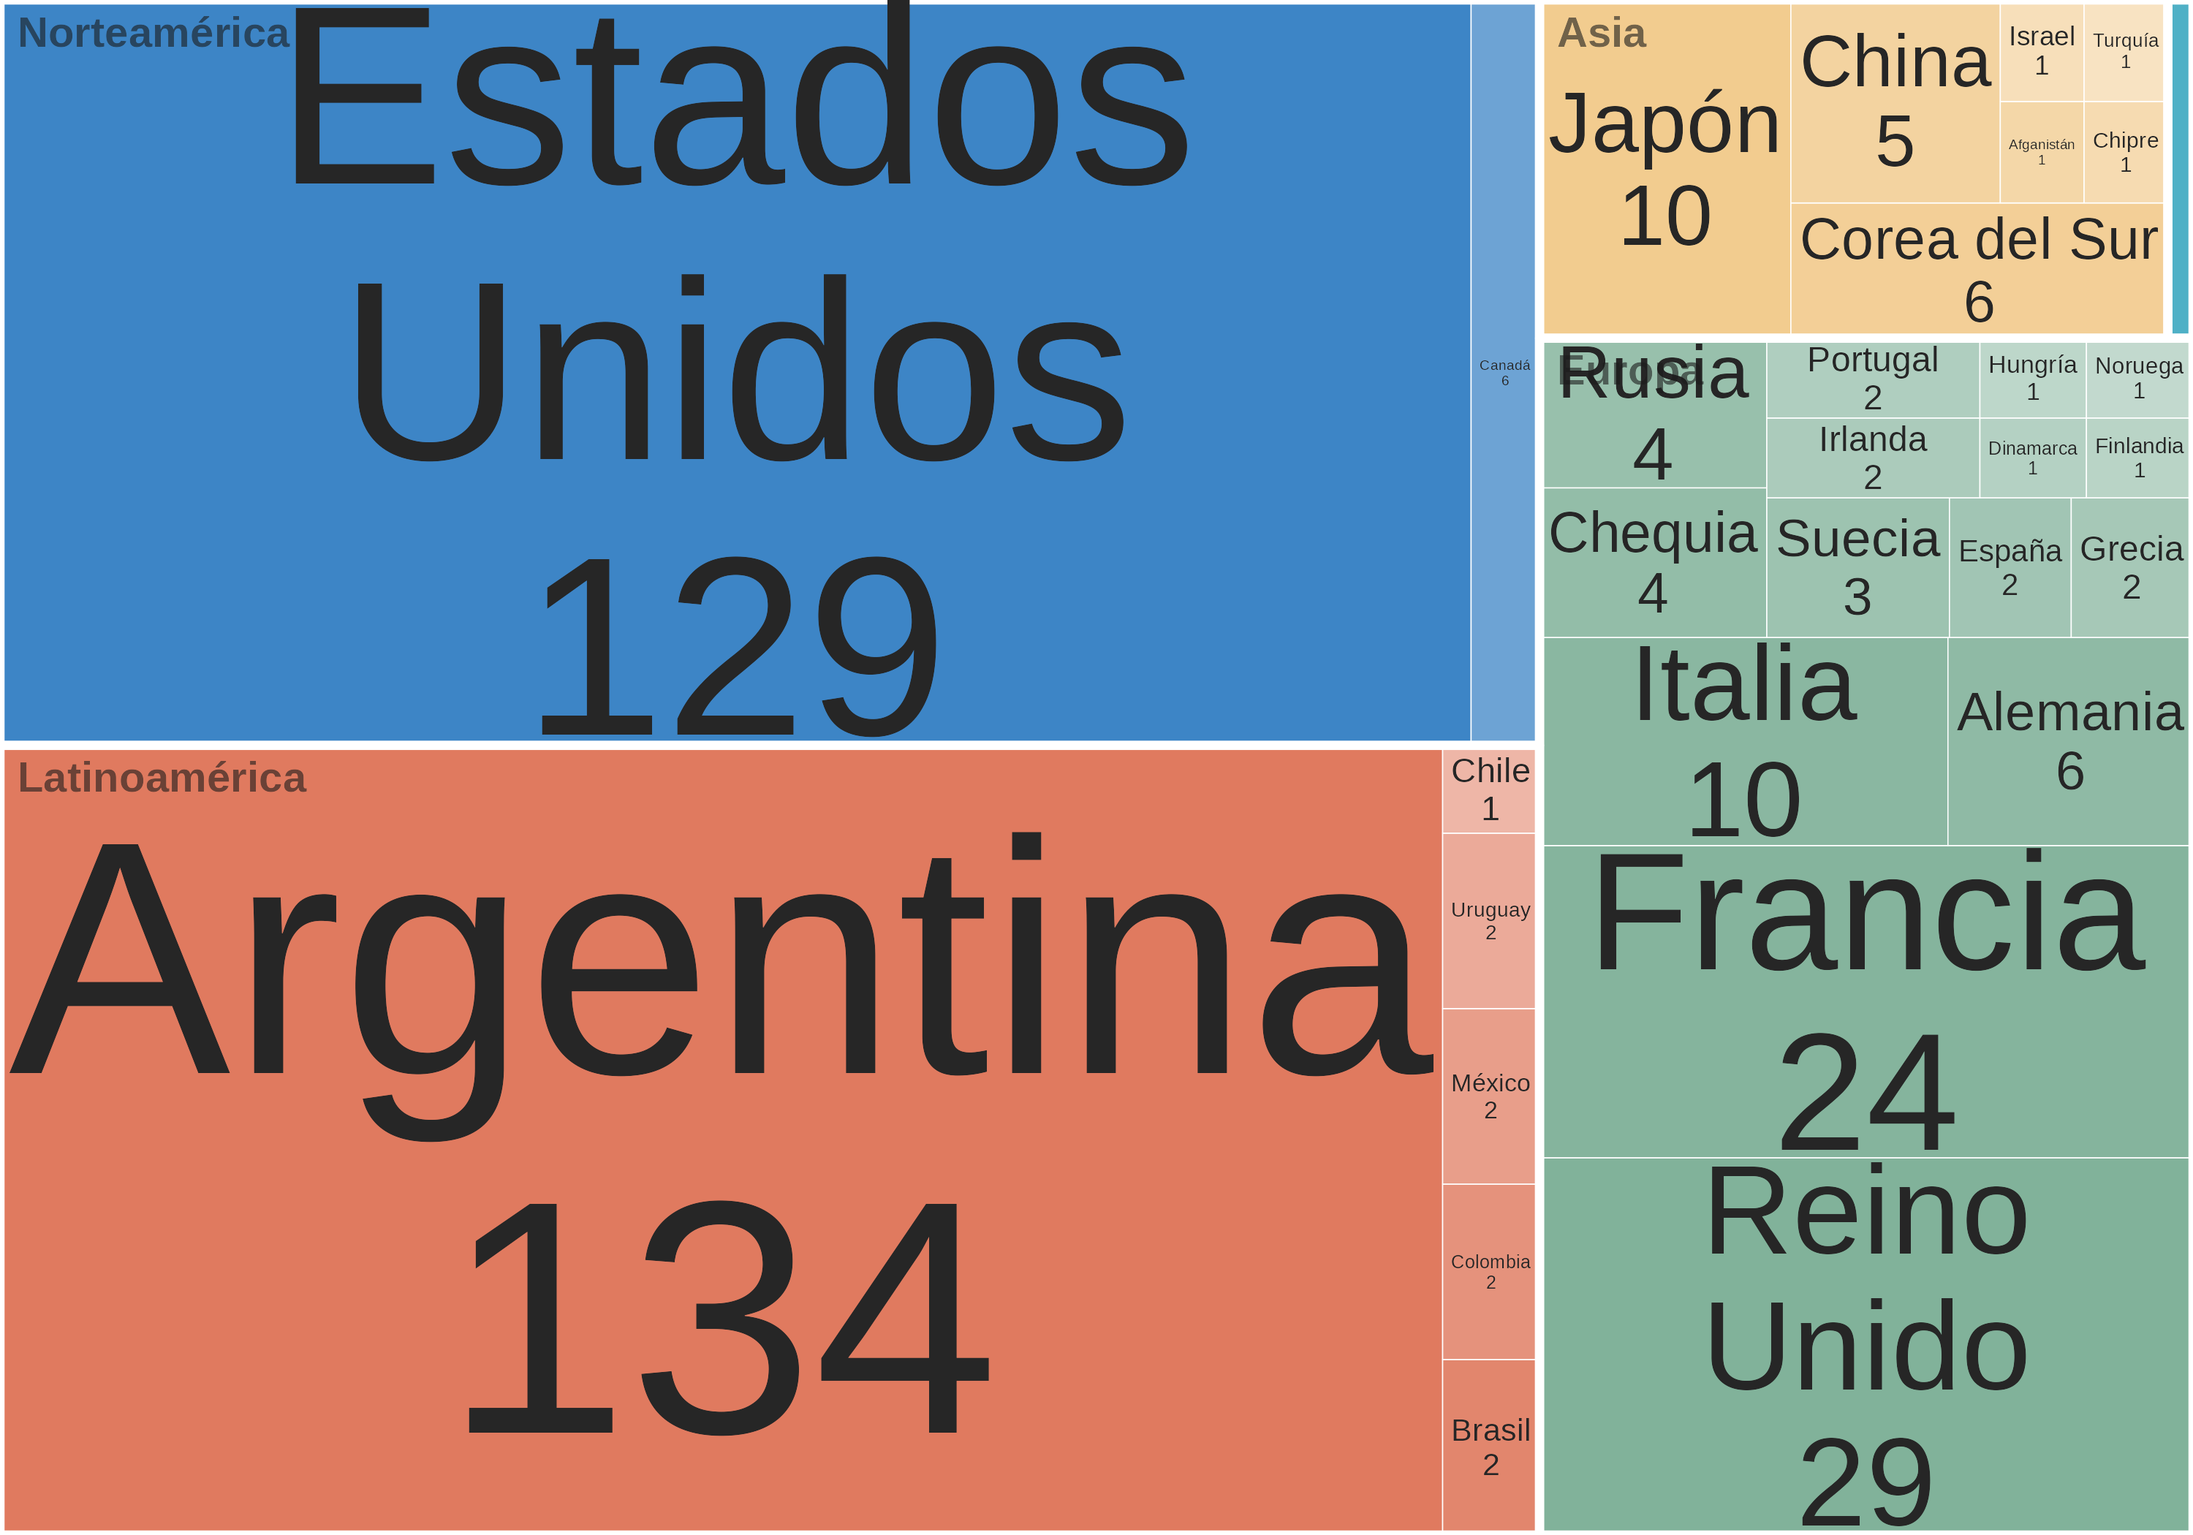
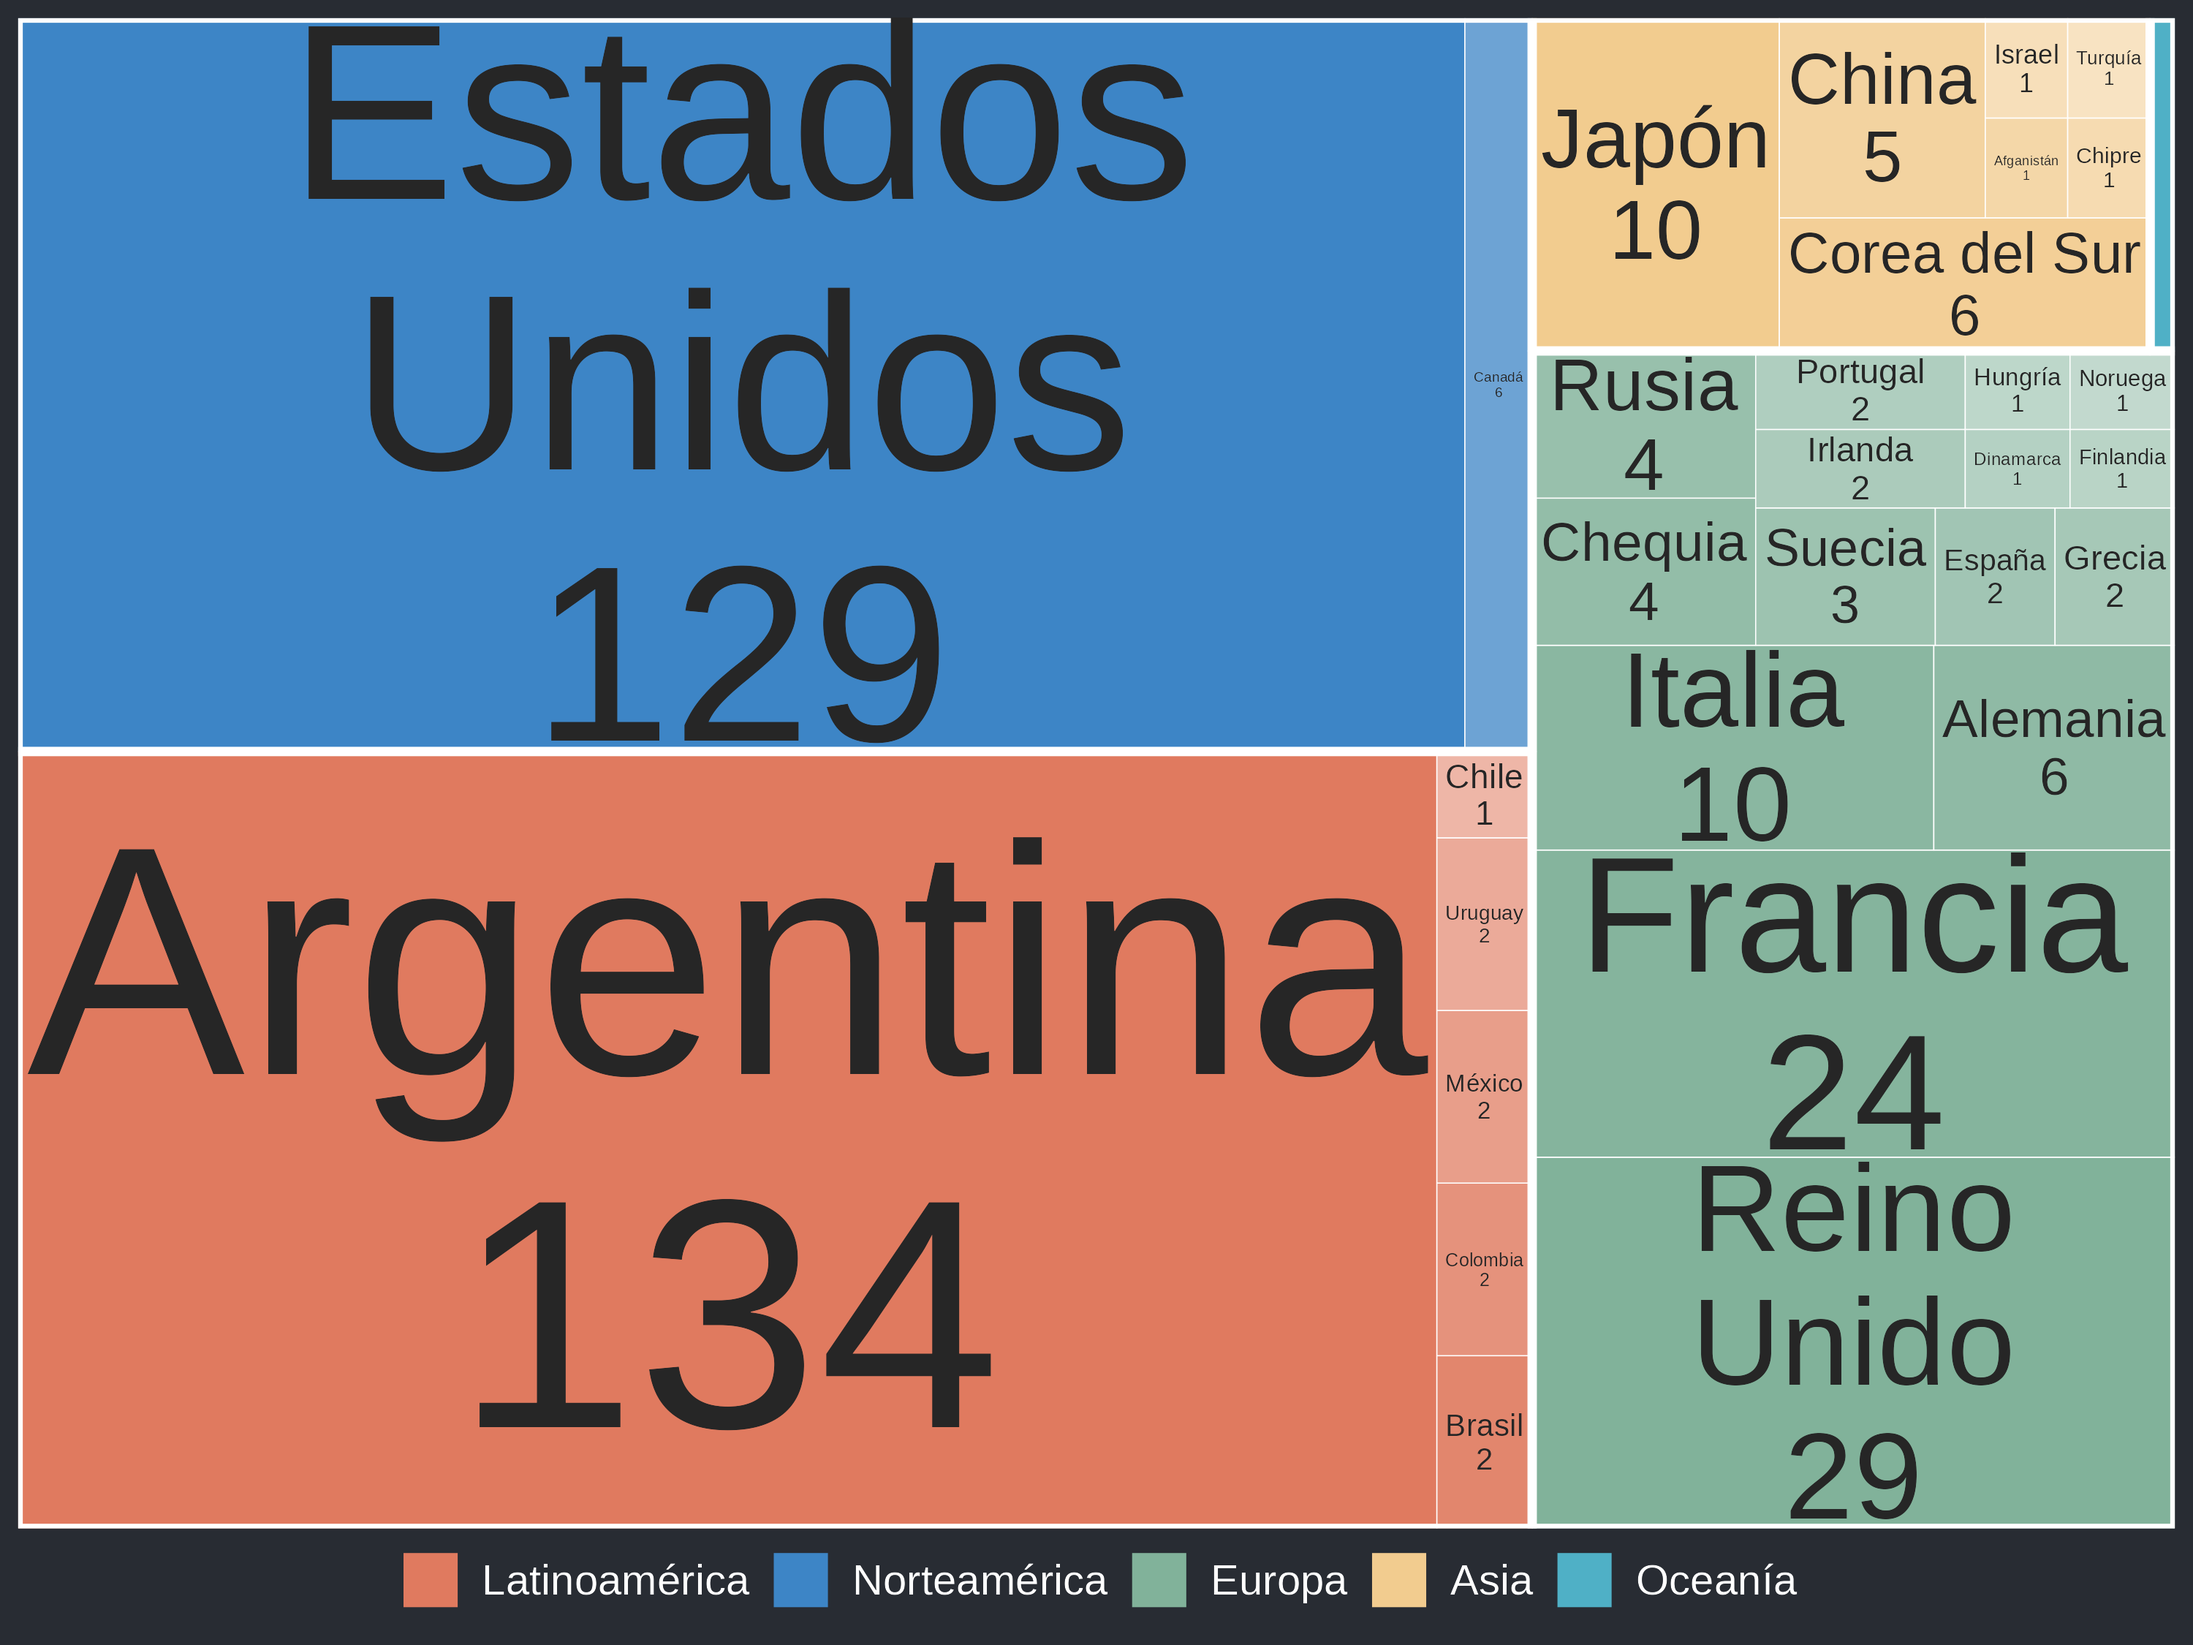
DataViz III: autores con nombre y treemap con leyenda de continentes
Claude-Session: https://claude.ai/code/session_01XA8AM6u7gpUR92ZEf2FbBM

Changed region(s): [[0.0, 0.0, 1.0, 1.0], [0.155, 0.1857, 0.527, 0.3095]]

diff --git a/_posts/2026-10-16-dataviz-libros.md b/_posts/2026-10-16-dataviz-libros.md
@@ -336,14 +336,16 @@ ggplot(authors, aes(x = reorder(Author, -n), y = n)) +
   geom_col(fill = "aquamarine", alpha = 0.5) +
   geom_text(aes(label = n), vjust = 3, color = "white") +
   geom_image(aes(image = image, y = n + 1.5), size = 0.1) +
-  xlab("Autor") + ylab("Libros") +
+  expand_limits(y = max(authors$n) + 4) +
+  xlab(NULL) + ylab("Libros") +
   scale_y_continuous(expand = expansion(mult = c(0, 0.05))) +
   theme_dark_blue() +
-  theme(axis.text.x = element_blank())
+  # Nombre de cada autor debajo de su barra, a 45 grados
+  theme(axis.text.x = element_text(angle = 45, hjust = 1, vjust = 1))
 ```
 
 {:.center}
-![Autores con al menos cuatro libros leídos, con su foto sobre cada barra; Stephen King encabeza con 19 libros](/assets/img/posts/dataviz3/12_autores.png)
+![Autores con al menos cuatro libros leídos, con su foto sobre cada barra y su nombre debajo; Stephen King encabeza con 19 libros, seguido por R. L. Stine con 14 y Haruki Murakami con 8](/assets/img/posts/dataviz3/12_autores.png)
 
 ¿De dónde son esos autores? En [DataViz II](/datascience/barras-y-tortas/) vimos el treemap. Acá le agregué un nivel: los países se agrupan por continente, cada continente tiene un color y los países van del tono pleno (el más leído) a tonos más claros. El continente sale de **countrycode**, a partir del nombre del país en español:
 
@@ -374,20 +376,34 @@ country <- country %>%
     round(n() * 1.8) + 1)[row_number()]) %>%
   ungroup()
 
+# Los continentes van en una leyenda debajo del treemap, ordenados de más a menos libros
+orden_continentes <- country %>%
+  count(continente, wt = n, sort = TRUE) %>%
+  pull(continente)
+
 ggplot(country, aes(area = n, fill = color, subgroup = continente,
                     label = paste0(Country, "\n", n))) +
   geom_treemap(colour = "white") +
   geom_treemap_subgroup_border(colour = "white", size = 4) +
   geom_treemap_text(colour = "grey15", place = "centre", grow = TRUE,
                     reflow = TRUE, min.size = 3) +
-  geom_treemap_subgroup_text(colour = "grey10", place = "topleft", grow = FALSE,
-                             size = 14, fontface = "bold", alpha = 0.6) +
+  # Capa invisible: solo sirve para generar la leyenda de continentes
+  geom_point(data = distinct(country, continente),
+             aes(x = 0, y = 0, colour = continente),
+             inherit.aes = FALSE, alpha = 0, shape = 15, size = 0) +
+  scale_colour_manual(values = colores_base, breaks = orden_continentes, name = NULL,
+                      guide = guide_legend(nrow = 1,
+                                           override.aes = list(alpha = 1, size = 8))) +
   scale_fill_identity() +
-  theme_void()
+  theme_void() +
+  theme(legend.position = "bottom",
+        legend.text = element_text(colour = "white", size = 14),
+        plot.background = element_rect(fill = "#282C33", colour = NA),
+        plot.margin = margin(6, 6, 10, 6))
 ```
 
 {:.center}
-![Treemap de libros por país del autor, agrupados por continente: Argentina con 134 y Estados Unidos con 129 ocupan más de la mitad; siguen Reino Unido con 29 y Francia con 24](/assets/img/posts/dataviz3/16_paises_treemap.png)
+![Treemap de libros por país del autor, agrupados por continente, con una leyenda de continentes debajo: Argentina con 134 y Estados Unidos con 129 ocupan más de la mitad; siguen Reino Unido con 29 y Francia con 24](/assets/img/posts/dataviz3/16_paises_treemap.png)
 
 Argentina y Estados Unidos se reparten dos tercios de la biblioteca. Eso es lo que muestra el treemap, que es bueno para comparar tamaños. Para ver la geografía, en cambio, nada como un mapa. Con **sf** y **rnaturalearth** es casi gratis una vez que tenemos los códigos ISO:
 
